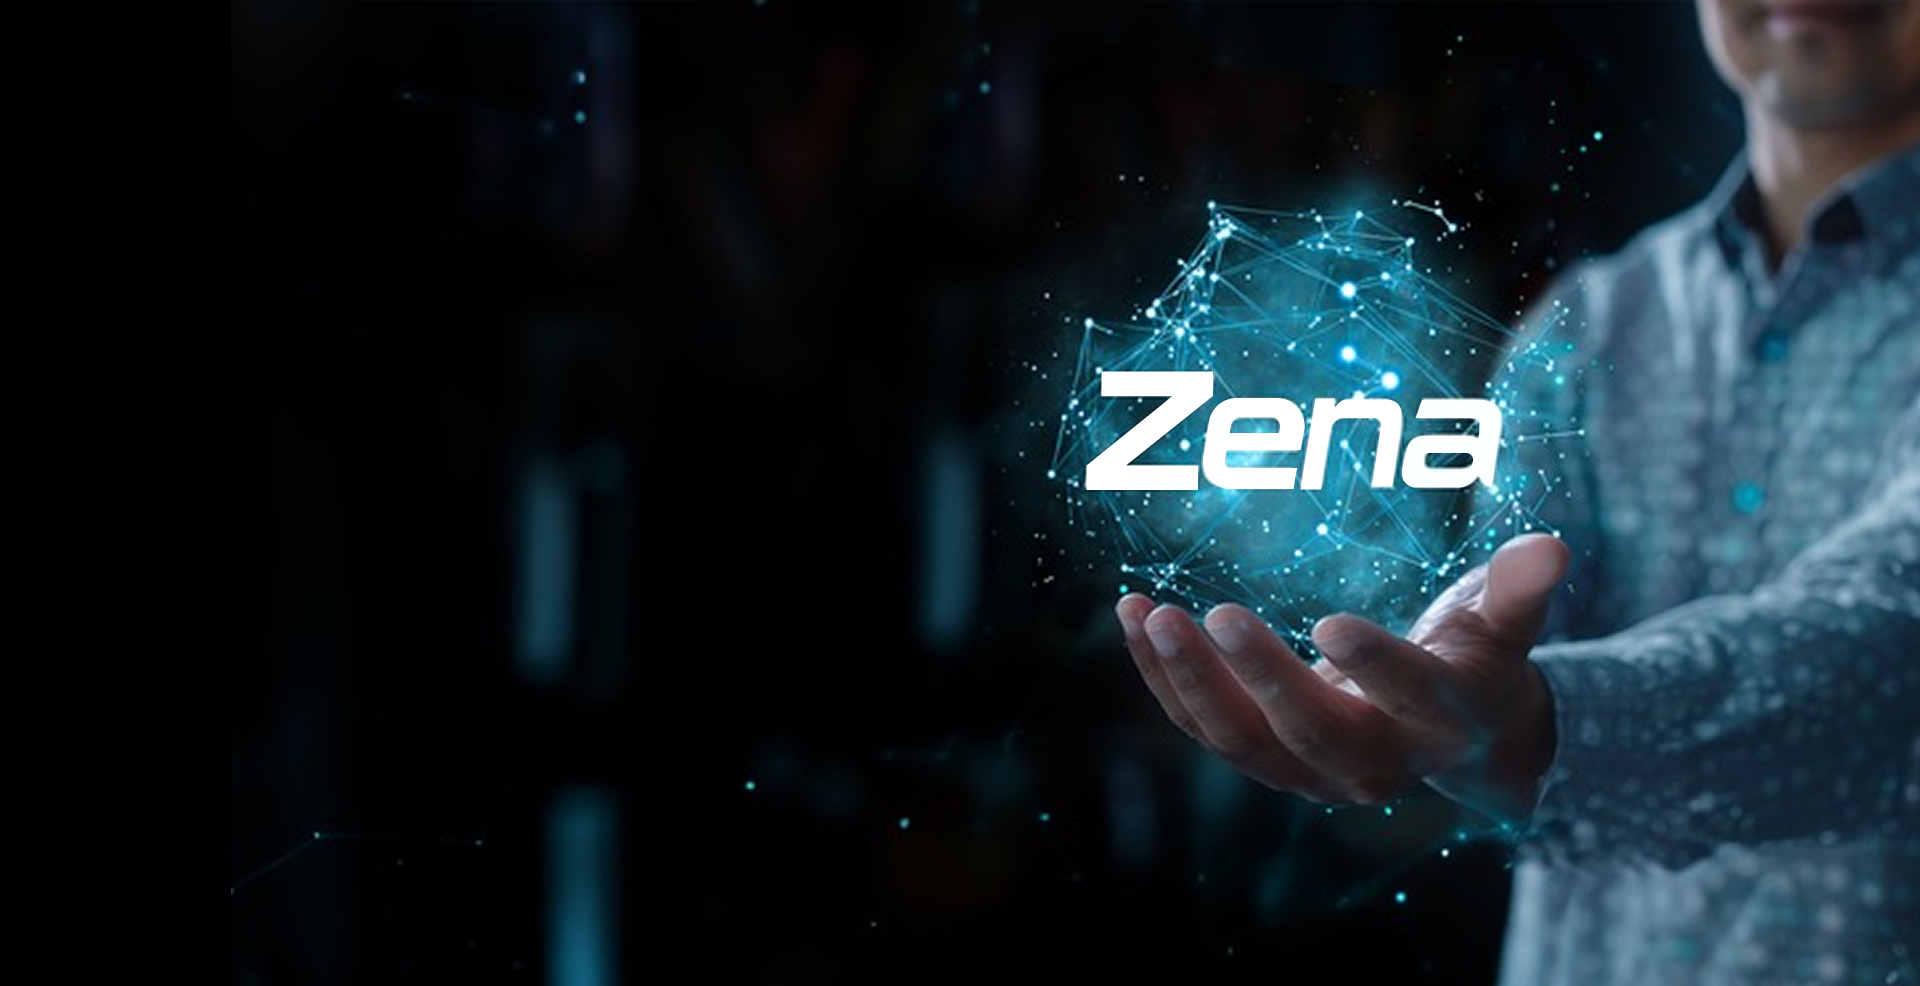
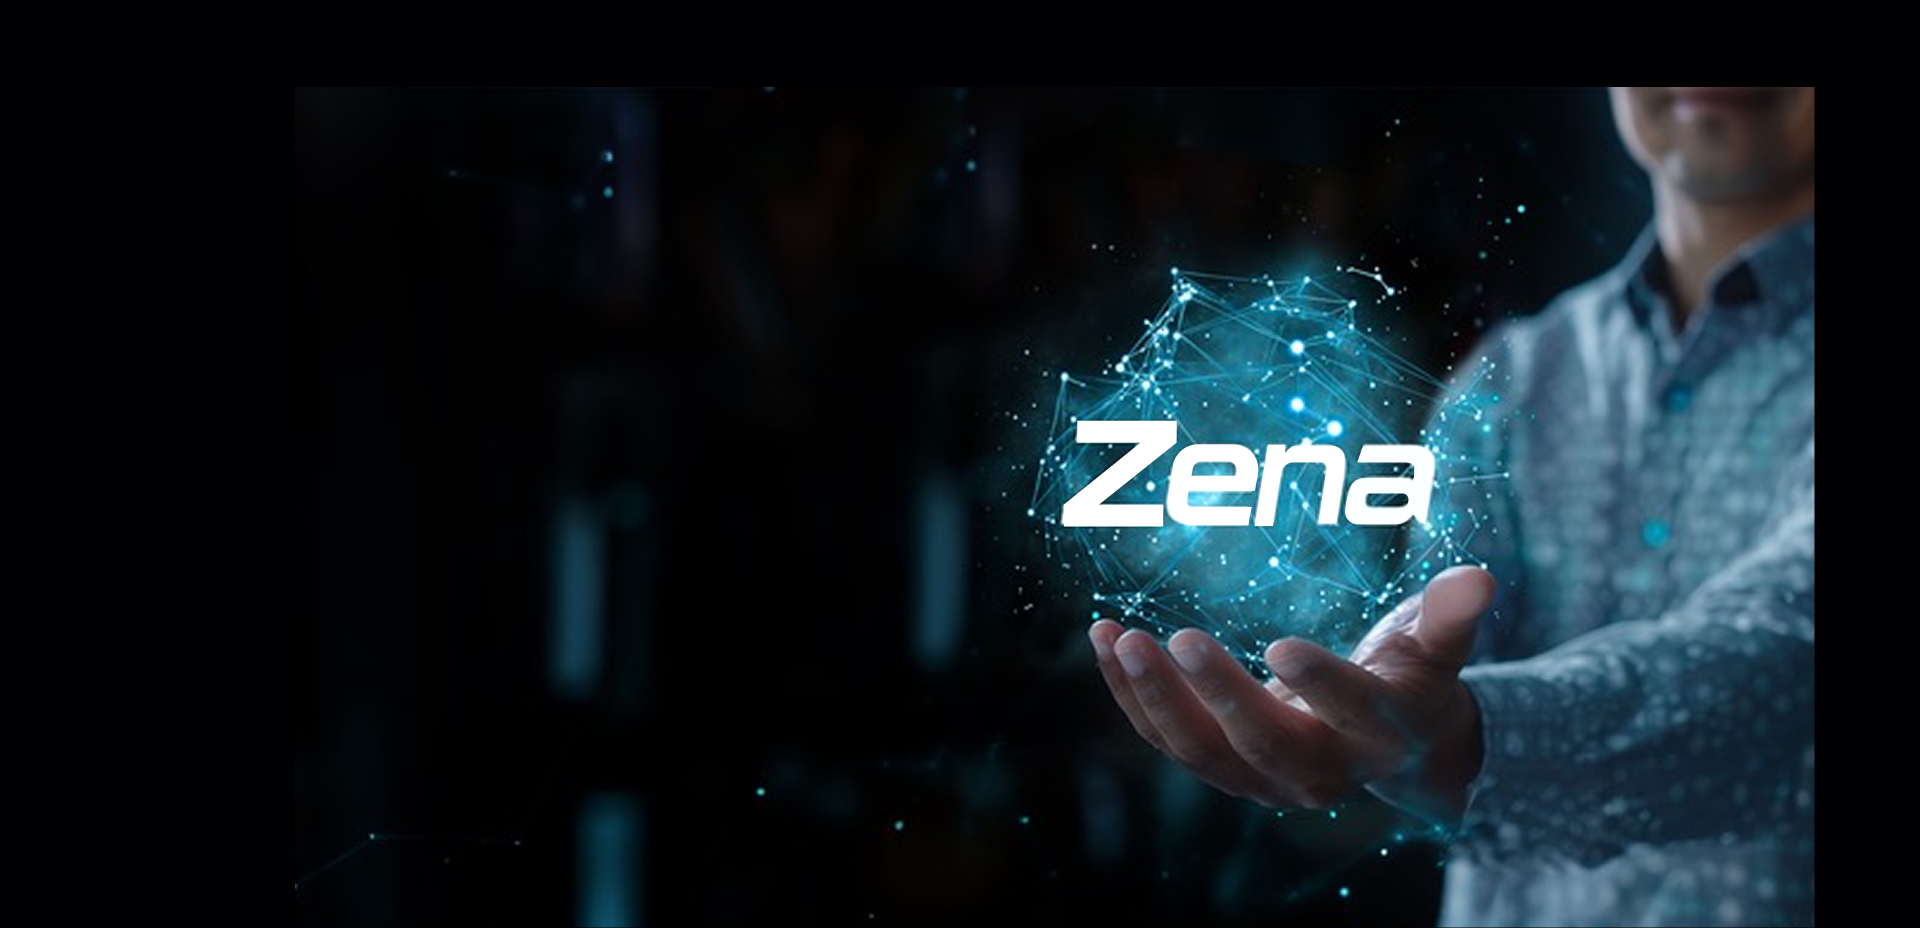
font-weight changes

diff --git a/index.html b/index.html
@@ -3,8 +3,8 @@
 
 <head>
     <meta charset="UTF-8">
-    <link href="https://fonts.googleapis.com/css2?family=Kanit:wght@400;500;600;700&display=swap" rel="stylesheet">
-    <link href="https://fonts.googleapis.com/css2?family=Roboto:wght@400;500;700&display=swap" rel="stylesheet">
+    <link href="https://fonts.googleapis.com/css2?family=Kanit:wght@100;300;400;500;600;700&display=swap" rel="stylesheet">
+    <link href="https://fonts.googleapis.com/css2?family=Roboto:wght@100;300;400;500;700&display=swap" rel="stylesheet">
     <meta name="viewport" content="width=device-width, initial-scale=1.0">
     <title>Zena</title>
     <style>
@@ -25,7 +25,7 @@
             top: 0;
             z-index: 1000;
             transition: background-color 0.3s ease-in-out;
-            border-bottom: 1px solid #404040;
+            border-bottom: 1px solid #ddd;
         }
 
         .navbar .image-container {
@@ -222,10 +222,12 @@
         #home {
             background: url('./assets/zena-hand.png');
             background-size: cover;
+            background-position: center;
+            background-repeat: no-repeat;
         }
 
         #home .home-top {
-            margin-top: 40px;
+            margin-top: 100px;
             font-family: Kanit;
             font-weight: 400;
             font-size: 70px;
@@ -512,7 +514,7 @@
         .button {
             color: #404040;
             font-weight: 400;
-            font-size: 24px;
+            font-size: 2wpx;
             line-height: 24px;
             letter-spacing: -0.58px;
             text-align: center;
@@ -1029,7 +1031,7 @@
                 if (entry.isIntersecting) {
                     navLinks.forEach(link => {
                         link.classList.remove('active');
-                        if (link.getAttribute('href').substring(1) === entry.target.id) {
+                        if (link.getAttribute('href').substring(1).startsWith(entry.target.id)) {
                             link.classList.add('active');
                         }
                     });
